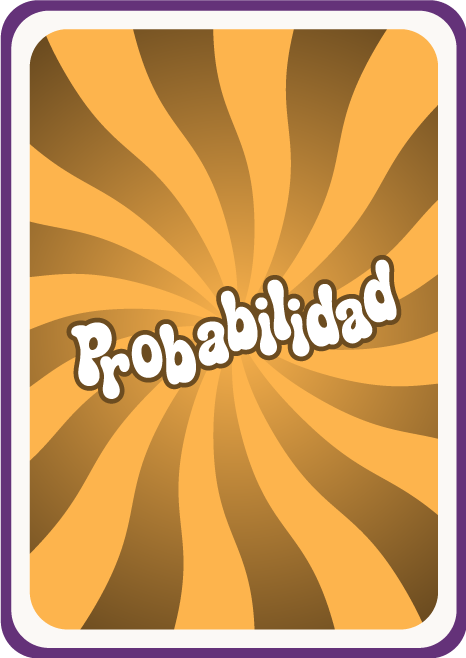
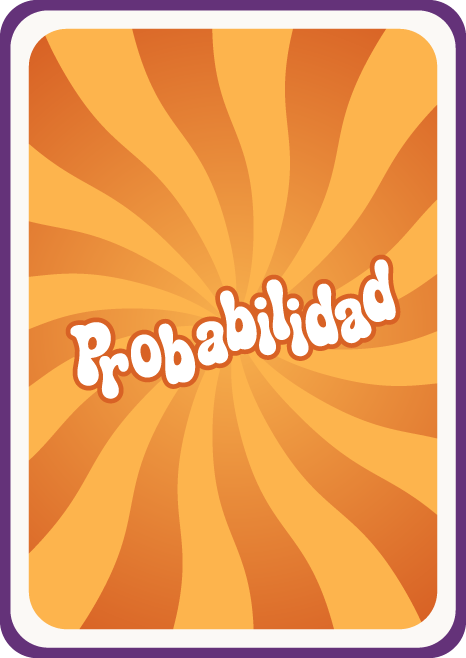
ajusted selección de juegos y pagina interna de jueegos

diff --git a/src/app/pages/game/game.page.scss b/src/app/pages/game/game.page.scss
@@ -4,121 +4,145 @@
 }
 
 .game-content {
-  --background:
-    radial-gradient(ellipse at 50% 20%, rgb(96 211 255 / 75%), transparent 62%),
-    repeating-linear-gradient(45deg, transparent 0 2.15rem, rgb(255 255 255 / 5%) 2.2rem 2.3rem),
-    repeating-linear-gradient(-45deg, transparent 0 2.15rem, rgb(0 54 133 / 7%) 2.2rem 2.3rem),
-    linear-gradient(155deg, #48ccff 0%, #16a6f1 54%, #087bc8 100%);
+  // Colores del lineal (en el estado por defecto quedan tapados por el radial)
+  --bg-1: #48ccff;
+  --bg-2: #16a6f1;
+  --bg-3: #087bc8;
+  --radial-a: 1; // 1 = radial visible, 0 = solo se ve el lineal
+
+  --background: radial-gradient(ellipse at center,
+      color-mix(in srgb, #6BCFFF calc(var(--radial-a) * 100%), transparent) 0%,
+      color-mix(in srgb, #0F93FC calc(var(--radial-a) * 100%), transparent) 100%),
+    linear-gradient(to bottom, var(--bg-1), var(--bg-2), var(--bg-3));
+
+  transition: --radial-a 0.6s ease,
+    --bg-1 0.6s ease,
+    --bg-2 0.6s ease,
+    --bg-3 0.6s ease;
   color: #fff;
 
-  &[data-intensity='beber'] {
-    --background:
-      radial-gradient(ellipse at 50% 20%, rgb(255 255 255 / 50%), transparent 62%),
-      repeating-linear-gradient(45deg, transparent 0 2.15rem, rgb(255 255 255 / 10%) 2.2rem 2.3rem),
-      repeating-linear-gradient(-45deg, transparent 0 2.15rem, rgb(135 69 0 / 7%) 2.2rem 2.3rem),
-      linear-gradient(155deg, #fdf2dc 0%, #fdc202 54%, #ff8e01 100%);
-    color: #40204d;
+  // romper-hielo: usa los valores por defecto (radial visible)
+
+  &[data-intensity="beber"] {
+    --radial-a: 0;
+    --bg-1: #FDF2DC;
+    --bg-2: #FDC202;
+    --bg-3: #FF8E01;
   }
 
-  &[data-intensity='parchar'] {
-    --background:
-      radial-gradient(ellipse at 50% 20%, rgb(255 137 200 / 48%), transparent 62%),
-      repeating-linear-gradient(45deg, transparent 0 2.15rem, rgb(255 255 255 / 7%) 2.2rem 2.3rem),
-      repeating-linear-gradient(-45deg, transparent 0 2.15rem, rgb(43 0 67 / 9%) 2.2rem 2.3rem),
-      linear-gradient(155deg, #c91c61 0%, #b92782 54%, #7440a2 100%);
+  &[data-intensity="parchar"] {
+    --radial-a: 0;
+    --bg-1: #C91C61;
+    --bg-2: #C91C61;
+    --bg-3: #944AB3;
   }
 
-  &[data-intensity='calentar'] {
-    --background:
-      radial-gradient(ellipse at 50% 20%, rgb(255 123 0 / 42%), transparent 62%),
-      repeating-linear-gradient(45deg, transparent 0 2.15rem, rgb(255 255 255 / 6%) 2.2rem 2.3rem),
-      repeating-linear-gradient(-45deg, transparent 0 2.15rem, rgb(0 0 0 / 12%) 2.2rem 2.3rem),
-      linear-gradient(155deg, #3b0025 0%, #84002e 54%, #ff7b00 100%);
+  &[data-intensity="calentar"] {
+    --radial-a: 0;
+    --bg-1: #3B0025;
+    --bg-2: #84002E;
+    --bg-3: #FF7B00;
   }
 
-  &[data-intensity='gozar'] {
-    --background:
-      radial-gradient(ellipse at 50% 20%, rgb(116 59 182 / 38%), transparent 62%),
-      repeating-linear-gradient(45deg, transparent 0 2.15rem, rgb(255 255 255 / 5%) 2.2rem 2.3rem),
-      repeating-linear-gradient(-45deg, transparent 0 2.15rem, rgb(147 93 207 / 8%) 2.2rem 2.3rem),
-      linear-gradient(155deg, #1a083b 0%, #0c0715 100%);
+  &[data-intensity="gozar"] {
+    --radial-a: 0;
+    --bg-1: #1A083B;
+    --bg-2: #0C0715;
+    --bg-3: #0C0715;
   }
 }
 
 .game-page {
-  box-sizing: border-box;
   display: flex;
   flex-direction: column;
-  min-height: 100%;
-  padding: max(1rem, env(safe-area-inset-top)) 1rem max(1.25rem, env(safe-area-inset-bottom));
+  min-height: 0;
+  height: 100%;
+  position: relative;
+  padding: 1rem 0;
+
+  .bgGame{
+    display: block;
+    position: absolute;
+    z-index: -1;
+    width: 100%;
+    height: 100%;
+    object-fit: cover;
+    opacity: 0.05;
+    inset: 0;
+  }
 }
 
-.players-stage {
+.playersContainer {
   display: flex;
-  flex: 0 0 auto;
+  flex-direction: column;
   align-items: center;
-  justify-content: center;
-  gap: clamp(0.75rem, 5vw, 2rem);
-  width: 100%;
-  padding: 0.5rem 0 1rem;
-  overflow-x: auto;
-  scrollbar-width: none;
+  gap: 1.5rem;
 
-  &::-webkit-scrollbar {
-    display: none;
+  h2 {
+    font-size: 2rem;
+    text-align: center;
   }
+
+  .playersWrapper {
+    display: flex;
+    align-items: center;
+    gap: 1rem;
+
+    &::-webkit-scrollbar {
+      display: none;
+    }
+  }
+
 }
 
 .player-seat {
-  display: flex;
-  flex: 0 0 auto;
-  flex-direction: column;
-  align-items: center;
-  gap: 0.15rem;
-}
+  position: relative;
+  opacity: .5;
+  transform: scale(0.8);
 
-.player-avatar {
-  display: grid;
-  width: 60px;
-  height: 60px;
-  place-items: center;
+  span {
+    position: absolute;
+    z-index: 2;
+    bottom: 2rem;
+    left: 50%;
+    transform: translate(-50%, 100%);
+    font-size: 1.2rem;
+    opacity: 0;
+    width: max-content;
 
-  .player-seat--current & {
-    width: 88px;
-    height: 88px;
+    line-height: 1;
+    font-family: 'Boogaloo', sans-serif;
+    -webkit-text-stroke: 0.5rem #0091CF;
+    paint-order: stroke fill;
+    stroke-linejoin: round;
+
+    color: #FFF;
   }
 
-  rive-player {
-    display: block;
-    flex: 0 0 auto;
-  }
-}
+  &.player-seat--current {
+    transform: scale(1.3);
+    opacity: 1;
 
-.player-name {
-  max-width: 5.5rem;
-  overflow: hidden;
-  color: inherit;
-  font-size: 0.7rem;
-  font-weight: 800;
-  text-overflow: ellipsis;
-  text-shadow: 0 2px 0 #40204d, 1px 0 0 #40204d, -1px 0 0 #40204d;
-  white-space: nowrap;
+    span {
+      opacity: 1;
+      bottom: 0.7rem;
+      font-size: 1.3rem;
+    }
+  }
 }
 
 .cards-table {
+  flex: 1;
   display: grid;
-  flex: 1 1 auto;
   min-height: 0;
   place-items: center;
-  padding: 0.5rem 0 1rem;
-  perspective: 60rem;
 }
 
 .card-deck {
   position: relative;
-  width: min(62vw, 15rem);
-  height: min(48vh, 23rem);
-  min-height: 14rem;
+  height: 100%;
+  max-height: 380px;
+  aspect-ratio: 466 / 658;
 }
 
 .deck-card {
@@ -126,29 +150,27 @@
   inset: 0;
   width: 100%;
   height: 100%;
-  border: 3px solid #fff;
-  border-radius: 1rem;
-  object-fit: cover;
-  box-shadow: 0 0.65rem 1rem rgb(0 0 0 / 28%);
+  border-radius: 24px;
+  box-shadow: 0 0.65rem 1rem rgb(0 0 0 / 5%);
 
   &:nth-child(1) {
-    transform: translate(-0.7rem, 0.55rem) rotate(-10deg);
+    transform: translateY(36px);
   }
 
   &:nth-child(2) {
-    transform: translate(-0.35rem, 0.25rem) rotate(-5deg);
+    transform: translateY(27px);
   }
 
   &:nth-child(3) {
-    transform: translate(0, 0.1rem) rotate(0deg);
+    transform: translateY(18px);
   }
 
   &:nth-child(4) {
-    transform: translate(0.35rem, 0.25rem) rotate(5deg);
+    transform: translateY(9px);
   }
 
   &:nth-child(5) {
-    transform: translate(0.7rem, 0.55rem) rotate(10deg);
+    transform: translateY(0px);
   }
 }
 
@@ -159,11 +181,16 @@
   text-align: center;
 }
 
-.game-footer {
-  display: flex;
-  flex: 0 0 auto;
-  justify-content: center;
-  padding-top: 0.5rem;
+.btnPrimary{
+  background: #d4146d;
+	box-shadow: inset 0 -6px 0 #9e0c50;
+  height: 3.4rem;
+  max-width: 170px;
+
+  h4{
+    font-size: 2rem;
+  }
+
 }
 
 .back-button {
@@ -171,7 +198,6 @@
   border: 3px solid #40204d;
   border-radius: 999px;
   padding: 0.45rem 1.2rem 0.65rem;
-  background: #d4146d;
   box-shadow: inset 0 -0.35rem 0 rgb(0 0 0 / 18%), 0 0.25rem 0 #641a50;
   color: #fff;
   font: inherit;

diff --git a/src/app/pages/game/game.page.html b/src/app/pages/game/game.page.html
@@ -1,37 +1,43 @@
 <ion-content [fullscreen]="true" class="game-content" [attr.data-intensity]="selectedIntensity()">
   <main class="game-page">
-    <section class="players-stage" aria-label="Jugadores">
-      @for (item of playerStage(); track item.position) {
-      <div class="player-seat" [class.player-seat--current]="item.position === 'current'">
-        <div class="player-avatar">
-          <rive-player [src]="item.player.avatar.src" [artboard]="item.player.avatar.artboard"
-            [stateMachine]="item.player.avatar.stateMachine" [gender]="item.player.gender" [showGender]="false"
-            [isIdle]="true" [size]="item.size">
-          </rive-player>
+    <img src="/assets/Juegos/Baraja/bg.png" class="bgGame" alt="">
+    <section class="playersContainer" aria-label="Jugadores">
+      <h2>Es el turno de</h2>
+      <div class="playersWrapper">
+        @for (item of playerStage(); track item.position) {
+        <div class="player-seat" [class.player-seat--current]="item.position === 'current'">
+
+          <span>{{ item.player.name }}</span>
+          <div class="player-avatar">
+            <rive-player [src]="item.player.avatar.src" [artboard]="item.player.avatar.artboard"
+              [stateMachine]="item.player.avatar.stateMachine" [gender]="item.player.gender" [showGender]="false"
+              [isIdle]="true">
+            </rive-player>
+          </div>
         </div>
-        <span class="player-name">{{ item.player.name }}</span>
+        }
       </div>
-      }
     </section>
 
     @if (selectedGame() === 'barajas') {
     <section class="cards-table" aria-label="Mazo de cartas">
       <div class="card-deck" aria-hidden="true">
         @for (card of deckCards; track $index) {
-        <img class="deck-card" src="assets/Juegos/Baraja/Reverso.png" alt="">
+        <img class="deck-card" src="assets/Juegos/Ruleta/Reverso.png" alt="">
         }
       </div>
     </section>
+
     } @else {
-    <section class="game-placeholder" aria-live="polite">
-      <p>{{ gameLabel }} estará disponible próximamente.</p>
+    <section class="roulette" aria-live="polite">
+        <img src="assets/Juegos/Ruleta/Ruleta.png" alt="">
     </section>
     }
 
-    <footer class="game-footer">
-      <button type="button" class="back-button" (click)="goBack()">
+    <button type="button" class="btnPrimary" (click)="goBack()">
+      <h4>
         Regresar
-      </button>
-    </footer>
+      </h4>
+    </button>
   </main>
 </ion-content>

diff --git a/src/app/pages/mode-selection/mode-selection.page.scss b/src/app/pages/mode-selection/mode-selection.page.scss
@@ -59,7 +59,7 @@
 .intensity-bg {
   position: absolute;
   inset: 0;
-  z-index: 0;
+  z-index: -1;
   pointer-events: none;
 }
 
@@ -77,6 +77,7 @@
   align-items: center;
   gap: 1rem;
   padding: 1rem;
+  padding-bottom: 0;
 
   svg {
     width: 28px;
@@ -105,7 +106,7 @@
   }
 
   &.intensityGames {
-    //height: 200px;
+    flex: 0.8;
   }
 
   .intensity__container {
@@ -248,6 +249,7 @@
 
 
 .games {
+  position: relative;
   min-height: 0;
   flex: 1.7;
   display: flex;
@@ -349,7 +351,7 @@
   min-width: 0;
   overflow: hidden;
   background: linear-gradient(to bottom, #00000000, rgba(0, 0, 0, 0.4) 100%);
-  padding: 0.5rem 1rem 2rem 1rem;
+  padding: 0.5rem 1rem 1.5rem 1rem;
 
   .btnAdd {
     position: relative;
